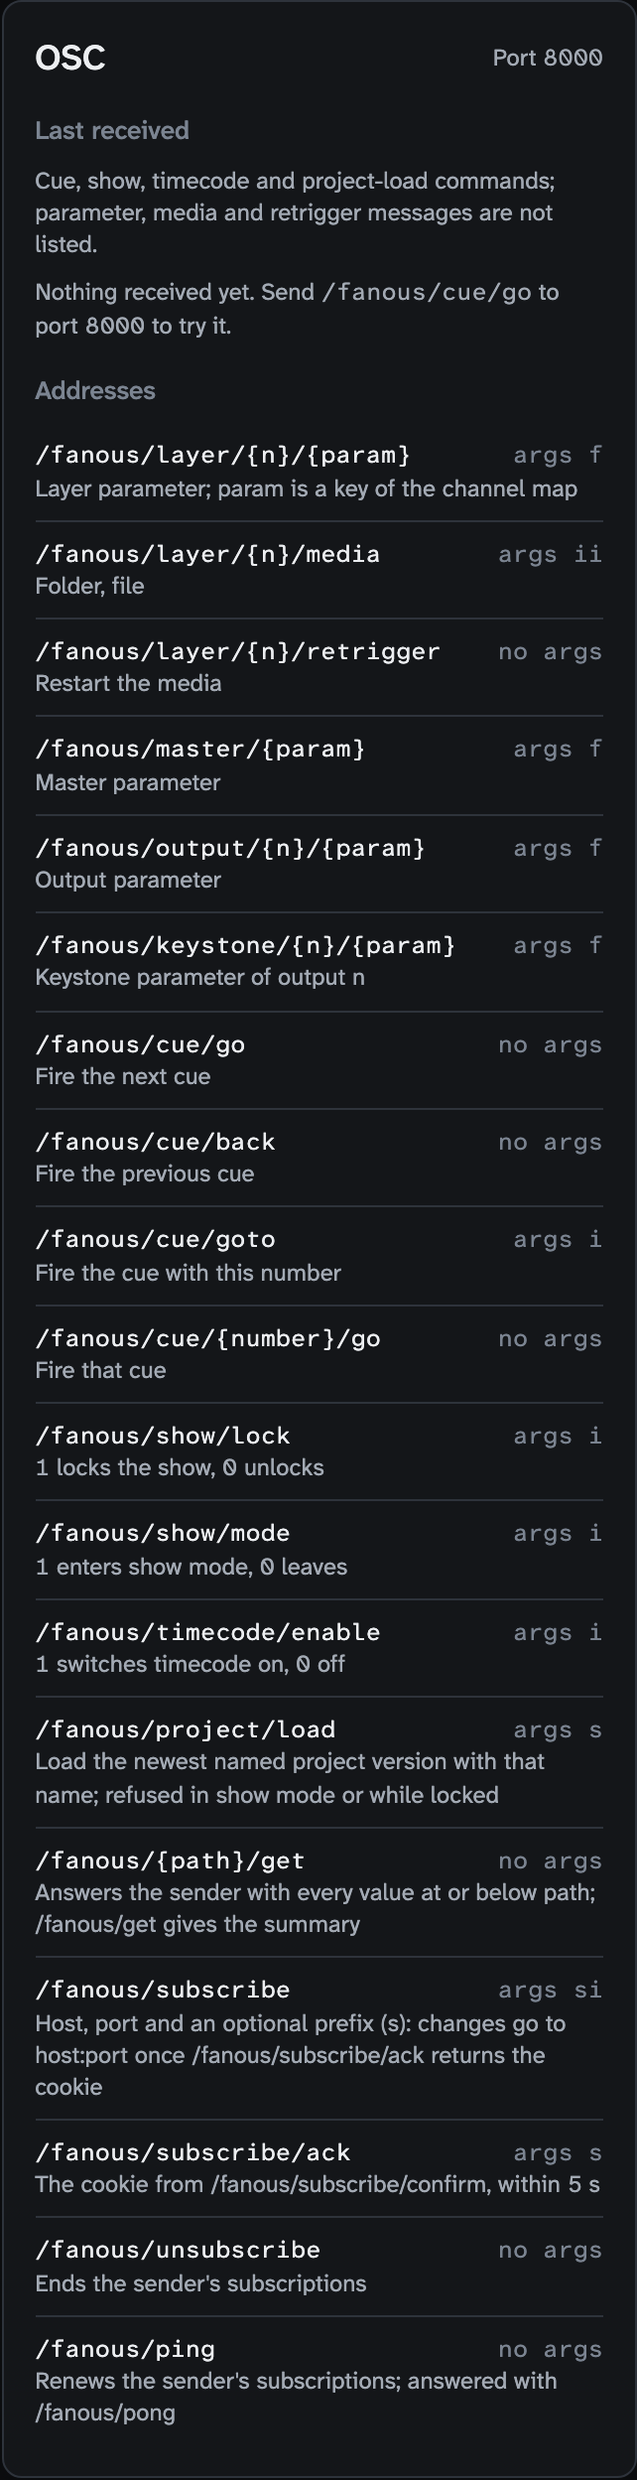
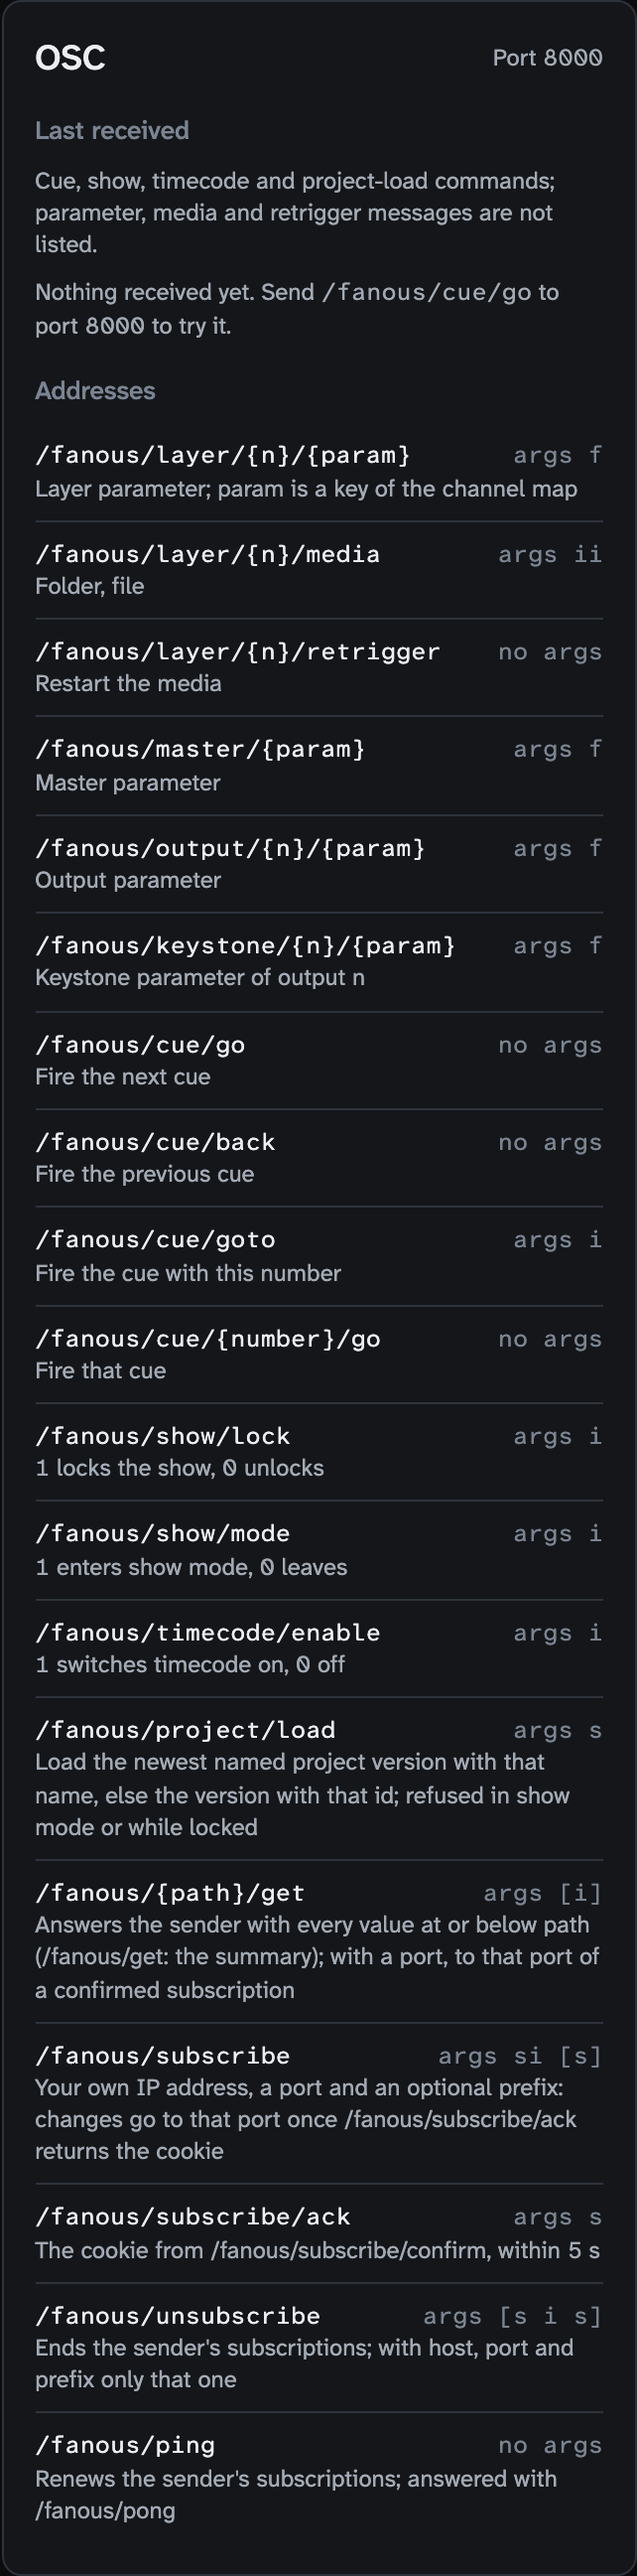
OSC panel: own IP for subscribe, optional ports and the id fallback (review)

Changed region(s): [[0.0, 0.0, 0.9969, 1.0], [0.8723, 0.0, 0.9346, 0.0312], [0.7788, 0.0, 0.81, 0.0312]]

diff --git a/web/src/components/ShowOSC.svelte b/web/src/components/ShowOSC.svelte
@@ -20,11 +20,11 @@
     { address: '/fanous/show/lock', args: 'i', note: '1 locks the show, 0 unlocks' },
     { address: '/fanous/show/mode', args: 'i', note: '1 enters show mode, 0 leaves' },
     { address: '/fanous/timecode/enable', args: 'i', note: '1 switches timecode on, 0 off' },
-    { address: '/fanous/project/load', args: 's', note: 'Load the newest named project version with that name; refused in show mode or while locked' },
-    { address: '/fanous/{path}/get', args: '', note: 'Answers the sender with every value at or below path; /fanous/get gives the summary' },
-    { address: '/fanous/subscribe', args: 'si', note: 'Host, port and an optional prefix (s): changes go to host:port once /fanous/subscribe/ack returns the cookie' },
+    { address: '/fanous/project/load', args: 's', note: 'Load the newest named project version with that name, else the version with that id; refused in show mode or while locked' },
+    { address: '/fanous/{path}/get', args: '[i]', note: 'Answers the sender with every value at or below path (/fanous/get: the summary); with a port, to that port of a confirmed subscription' },
+    { address: '/fanous/subscribe', args: 'si [s]', note: 'Your own IP address, a port and an optional prefix: changes go to that port once /fanous/subscribe/ack returns the cookie' },
     { address: '/fanous/subscribe/ack', args: 's', note: 'The cookie from /fanous/subscribe/confirm, within 5 s' },
-    { address: '/fanous/unsubscribe', args: '', note: 'Ends the sender\'s subscriptions' },
+    { address: '/fanous/unsubscribe', args: '[s i s]', note: 'Ends the sender\'s subscriptions; with host, port and prefix only that one' },
     { address: '/fanous/ping', args: '', note: 'Renews the sender\'s subscriptions; answered with /fanous/pong' },
   ];
 
